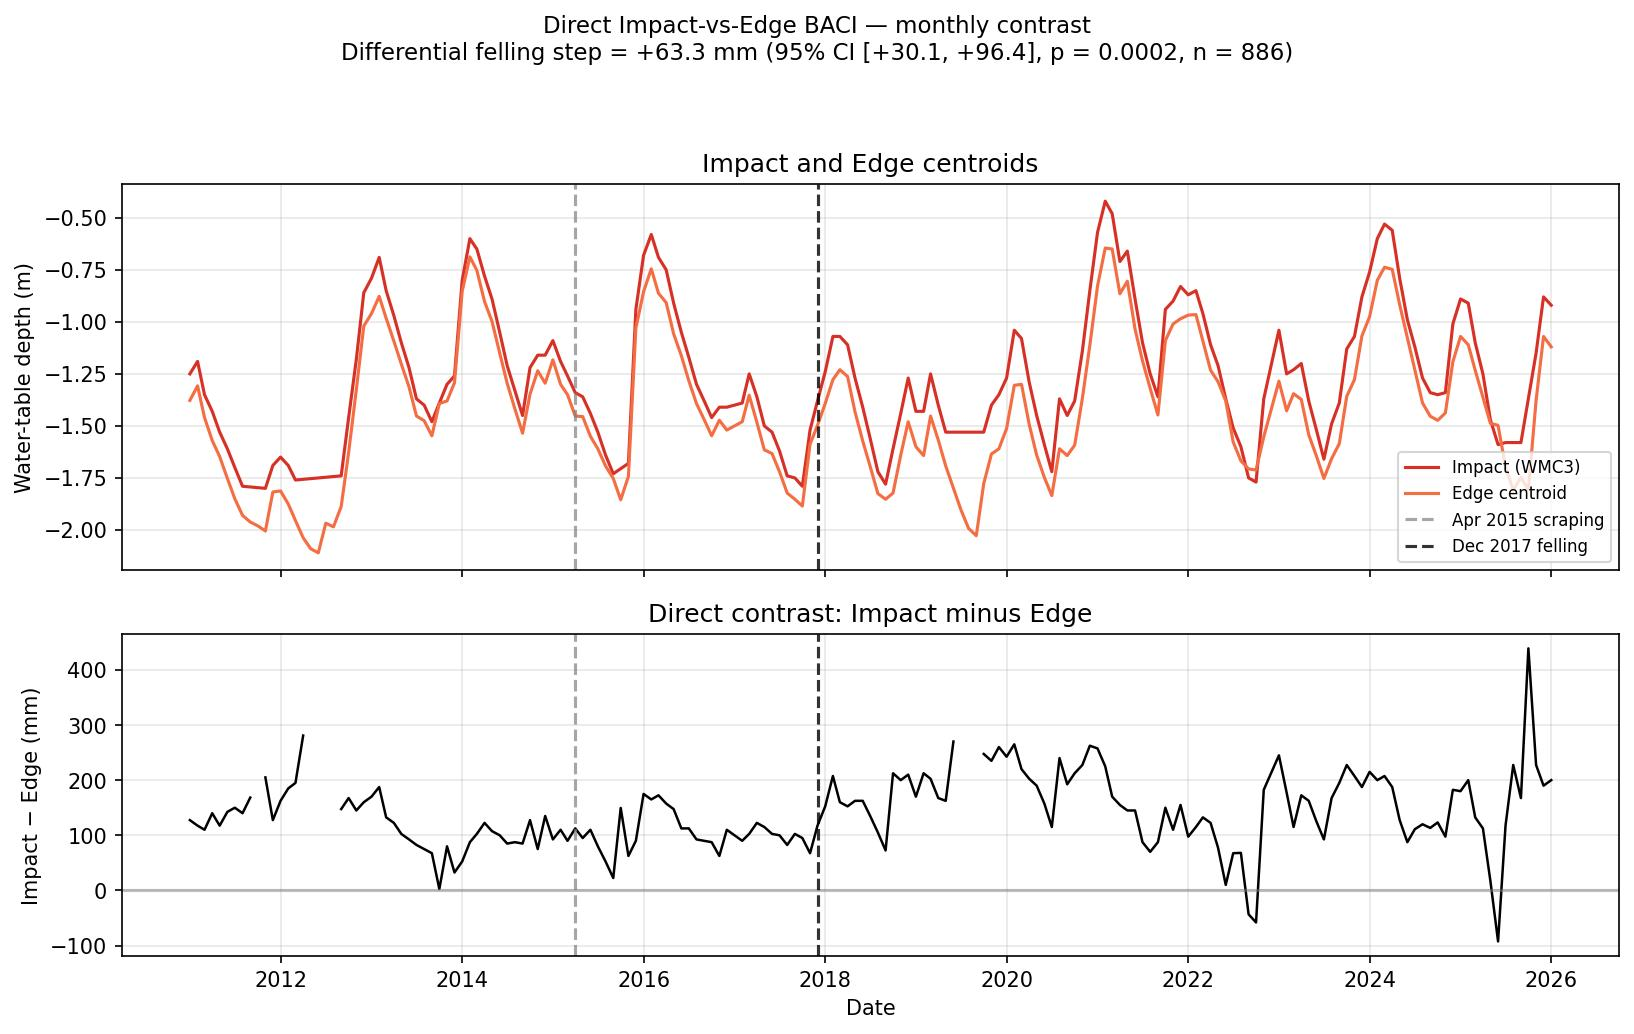
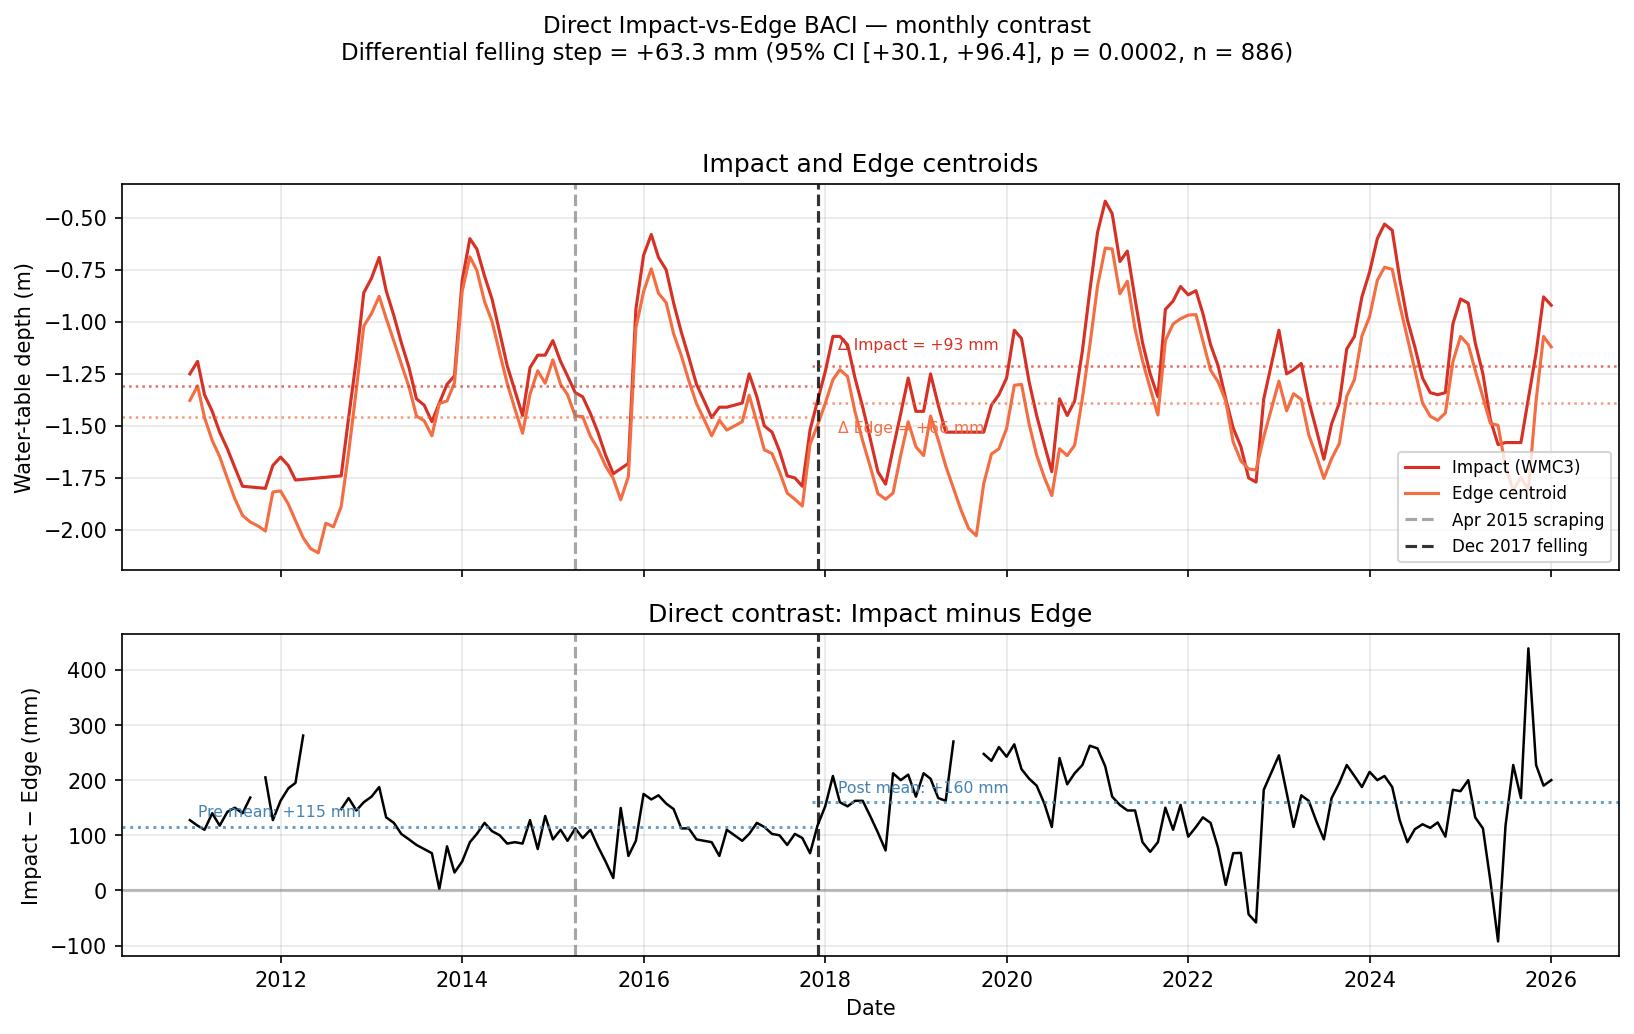
26 ebf

diff --git a/src/26_van_willegen_msl.py b/src/26_van_willegen_msl.py
@@ -46,6 +46,10 @@ Outputs (DIR_26 / "26_van_willegen_msl/"):
                                     (calibrated MSL5 = a + b·EWI) with residuals
                                     and in_van_willegen flag — the weighable
                                     prediction table (report §4.8.5)
+  * 26_ebf_comparison.csv           Per-piezometer Ellenberg-F with MSL5 and EWI
+                                    predictions (v1.3.3; external input required)
+  * 26_ebf_prediction_scatter.png   Three-panel EbF scatter — report Fig XX
+                                    (v1.3.3; external input required)
   * 26_msl_5yr_trajectory.png       Cluster trajectories with Curreli refs
   * 26_msl_5yr_quadrat_wells.png    Per-well trajectories at van-Willegen
                                     co-located quadrat wells (calibrated set)
@@ -60,6 +64,21 @@ hydrology. Ecological Indicators, 170, 113016.
 https://doi.org/10.1016/j.ecolind.2024.113016
 
 Curreli, A. et al. (2013) — SD15b/SD16 threshold reference lines.
+
+Version: 1.3.3 (2026-07-03) — EbF cross-validation moved into the pipeline:
+  * New compute_ebf_crossvalidation() + plot_ebf_scatter(): the Ellenberg-F
+    validation is now PIPELINE-GENERATED (Pass 7) rather than a one-off. It reads
+    the documented external van Willegen dataset (paths.DATA_ELLENBERG_EXT; van
+    Willegen et al. 2024, Mendeley — gitignored, not redistributed) and runs only
+    if that file is present, skipping cleanly otherwise. Between the 17 van
+    Willegen piezometers it regresses mean Ellenberg-F on observed MSL5 and on the
+    equilibrium index (annual and spring climatology), reporting r (Fisher-z CI),
+    RMSE (bootstrap CI), Williams' test (MSL5 vs annual EWI), and A–D match bands.
+  * Outputs 26_ebf_comparison.csv and 26_ebf_prediction_scatter.png (report
+    Fig XX) added. paths gains DATA_ELLENBERG_EXT, OUT_26_EBF_COMPARISON,
+    OUT_26_EBF_SCATTER. MSL5-vs-EbF correlation settles at the per-piezometer
+    aggregation (r ≈ 0.83), matching the Table YY / Williams basis.
+  * Still a Pass inside Script 26 — no change to the pipeline step count.
 
 Version: 1.3.2 (2026-07-03) — Open-dune scoping via site-wide Pearson clusters:
   * Extended wells now carry a canonical cluster label, read from the Pearson
@@ -1193,6 +1212,127 @@ def compute_ewi_msl5_comparison(ewi: pd.DataFrame,
 
 
 
+def compute_ebf_crossvalidation(elev: pd.DataFrame):
+    """
+    One-off-in-code, pipeline-generated Ellenberg-F cross-validation (v1.3.3).
+
+    Reads the documented external van Willegen ecohydrology dataset
+    (paths.DATA_ELLENBERG_EXT; van Willegen et al. 2024, Mendeley Data). If the
+    file is absent the Pass is skipped cleanly and the rest of Script 26 runs.
+
+    Between the 17 van Willegen piezometers, regresses mean Ellenberg-F on three
+    water-table metrics — observed MSL5, the equilibrium index on the annual
+    climatology, and on the spring climatology — reporting per-metric r (Fisher-z
+    CI), RMSE (bootstrap CI), the Williams test for MSL5 vs the annual index, and
+    A–D match bands. Correlations/RMSE are datum-invariant, so pipe-frame EWI and
+    the dataset's own Mean Spring are used directly.
+
+    Returns (per_well_df, summary_dict) or (None, None) if the input is absent.
+    """
+    from scipy.stats import pearsonr, t as _t
+    xlsx = paths.DATA_ELLENBERG_EXT
+    if not xlsx.exists():
+        warn(f"external Ellenberg dataset not found at {xlsx} — EbF Pass skipped "
+             f"(obtain from Mendeley doi:10.17632/p4xvb6xxp9.1)")
+        return None, None
+
+    # response: mean Ellenberg-F per piezometer
+    ebf = pd.read_excel(xlsx, "meanEbF")
+    for c in ["EbF1a", "EbF1b", "EbF1c", "EbF1d"]:
+        ebf[c] = pd.to_numeric(ebf[c], errors="coerce")
+    ebf["EbF"] = ebf[["EbF1a", "EbF1b", "EbF1c", "EbF1d"]].mean(axis=1)
+    ebf["piezo"] = (ebf["ID"].astype(str).str.rsplit("_", n=1).str[0]
+                    .str.replace(r"-\d+$", "", regex=True).str.lower())
+    ebf = ebf.dropna(subset=["EbF"]).groupby("piezo")["EbF"].mean()
+
+    # observed MSL5 (dataset's own Mean Spring, 5-yr rolling, per-piezo mean)
+    yb = pd.read_excel(xlsx, "Hydrology_metric_YearB")
+    yb["piezo"] = yb["Statistic"].astype(str).str.replace(r"-\d+$", "", regex=True).str.lower()
+    piv = yb.pivot_table(index="Year", columns="piezo", values="Mean Spring")
+    msl5 = piv.rolling(5, min_periods=5).mean().mean().rename("MSL5")
+
+    # EWI per piezometer from committed β on annual and spring climatologies
+    clim = pd.read_csv(paths.INT_CLIMATE, index_col=0, parse_dates=True)
+    P_ann, PET_ann = clim["P_m"].mean(), clim["PET"].mean()
+    sp = clim[clim.index.month.isin(config.MSL_SPRING_MONTHS)]
+    P_sp, PET_sp = sp["P_m"].mean(), sp["PET"].mean()
+    md = pd.read_csv(paths.INT_MASTER_DATA); md["piezo"] = md["Name_Original"].str.lower()
+    md["EWI_annual"] = (md["beta_1_recharge"] * P_ann - md["beta_2_atmospheric_draw"] * PET_ann) \
+        / md["beta_3_drainage"] - config.DRAINAGE_DATUM
+    md["EWI_spring"] = (md["beta_1_recharge"] * P_sp - md["beta_2_atmospheric_draw"] * PET_sp) \
+        / md["beta_3_drainage"] - config.DRAINAGE_DATUM
+    md = md.set_index("piezo")[["EWI_annual", "EWI_spring", "Cluster"]]
+
+    df = pd.DataFrame({"EbF": ebf}).join(msl5).join(md).dropna(subset=["EbF", "MSL5", "EWI_annual"])
+    n = len(df)
+
+    def _fit(col, B=5000):
+        x, y = df[col].to_numpy(), df["EbF"].to_numpy()
+        b, a = np.polyfit(x, y, 1); pred = a + b * x
+        res = np.abs(y - pred); rmse = float(np.sqrt(np.mean((y - pred) ** 2)))
+        r = float(pearsonr(x, y)[0])
+        z, se = np.arctanh(r), 1 / np.sqrt(len(x) - 3)
+        rlo, rhi = np.tanh(z - 1.96 * se), np.tanh(z + 1.96 * se)
+        rng = np.random.default_rng(0); bs = []
+        for _ in range(B):
+            i = rng.integers(0, len(x), len(x))
+            bb, aa = np.polyfit(x[i], y[i], 1)
+            bs.append(np.sqrt(np.mean((y[i] - (aa + bb * x[i])) ** 2)))
+        return dict(r=r, r_lo=float(rlo), r_hi=float(rhi), rmse=rmse,
+                    rmse_lo=float(np.percentile(bs, 2.5)), rmse_hi=float(np.percentile(bs, 97.5)),
+                    resid=res)
+
+    fit = {c: _fit(c) for c in ["MSL5", "EWI_annual", "EWI_spring"]}
+
+    # Williams' test: MSL5 vs annual EWI as EbF predictors (dependent)
+    r_ey = pearsonr(df["MSL5"], df["EbF"])[0]
+    r_ez = pearsonr(df["EWI_annual"], df["EbF"])[0]
+    r_yz = pearsonr(df["MSL5"], df["EWI_annual"])[0]
+    R = (1 - r_ey**2 - r_ez**2 - r_yz**2) + 2 * r_ey * r_ez * r_yz
+    t_w = (r_ey - r_ez) * np.sqrt((n - 1) * (1 + r_yz) /
+          (2 * ((n - 1) / (n - 3)) * R + ((r_ey + r_ez)**2 / 4) * (1 - r_yz)**3))
+    p_w = float(2 * (1 - _t.cdf(abs(t_w), n - 3)))
+
+    # A–D match bands (Ellenberg-F units), MSL5 vs annual EWI
+    edges = [0, 0.15, 0.30, 0.50, np.inf]; labs = ["A", "B", "C", "D"]
+    bands = {}
+    for lab, lo, hi in zip(labs, edges[:-1], edges[1:]):
+        bands[lab] = (int(((fit["MSL5"]["resid"] > lo) & (fit["MSL5"]["resid"] <= hi)).sum()),
+                      int(((fit["EWI_annual"]["resid"] > lo) & (fit["EWI_annual"]["resid"] <= hi)).sum()))
+
+    out = df.copy(); out.index.name = "piezo"; out = out.reset_index()
+    out["piezo"] = out["piezo"].str.upper()
+    out["resid_MSL5"] = fit["MSL5"]["resid"]
+    out["resid_EWI_annual"] = fit["EWI_annual"]["resid"]
+    out = out[["piezo", "Cluster", "EbF", "MSL5", "EWI_annual", "EWI_spring",
+               "resid_MSL5", "resid_EWI_annual"]]
+
+    summary = dict(n=n, fit=fit, williams_t=float(t_w), williams_p=p_w, bands=bands,
+                   r_MSL5=fit["MSL5"]["r"], r_EWI_annual=fit["EWI_annual"]["r"])
+    return out, summary
+
+
+def plot_ebf_scatter(df: pd.DataFrame, summary: dict, out: Path) -> None:
+    """Three-panel between-well EbF scatter: MSL5 | annual EWI | spring EWI (Fig XX)."""
+    panels = [("MSL5", "5-yr mean spring level MSL5 (m)", "(a) Observed MSL5"),
+              ("EWI_annual", "Equilibrium index, annual climate (m)", "(b) EWI — annual"),
+              ("EWI_spring", "Equilibrium index, spring climate (m)", "(c) EWI — spring")]
+    fig, axes = plt.subplots(1, 3, figsize=(15, 5.2), sharey=True)
+    for ax, (col, xlab, title) in zip(axes, panels):
+        for cid in sorted(df["Cluster"].dropna().astype(int).unique()):
+            s = df[df["Cluster"] == cid]
+            ax.scatter(s[col], s["EbF"], s=55, edgecolor="k", linewidth=0.4,
+                       color=config.CLUSTER_COLOURS.get(cid, "grey"),
+                       label=config.CLUSTER_LABELS.get(cid, f"C{cid}"), zorder=3)
+        m, c = np.polyfit(df[col], df["EbF"], 1); xs = np.array([df[col].min(), df[col].max()])
+        ax.plot(xs, m * xs + c, "k--", lw=1, zorder=2)
+        r = summary["fit"][col]["r"]
+        ax.set_xlabel(xlab); ax.set_title(f"{title}\nr = {r:+.2f}  (n = {summary['n']})", fontsize=10)
+    axes[0].set_ylabel("Mean Ellenberg-F (moisture)")
+    axes[2].legend(fontsize=7, loc="lower right", title="Habitat")
+    fig.tight_layout(); fig.savefig(out, dpi=160); plt.close(fig)
+
+
 def main() -> int:
     banner("26", "van Willegen MSL Projection")
     print("=" * 72)
@@ -1377,6 +1517,25 @@ def main() -> int:
                 info(f"  out-of-scope forest (C4/C5): n={len(forest)}, "
                      f"RMSE {np.sqrt((forest['residual_mm']**2).mean()):.0f} mm "
                      f"(predicted but flagged unreliable)")
+
+    # ── Pass 7 — Ellenberg-F cross-validation (v1.3.3, external input) ─────
+    print("\nPass 7 — Ellenberg-F cross-validation (MSL5 vs EWI; external dataset)")
+    ebf_df, ebf_summary = compute_ebf_crossvalidation(elev)
+    if ebf_df is not None:
+        ebf_df.to_csv(paths.OUT_26_EBF_COMPARISON, index=False)
+        saved(f"{paths.OUT_26_EBF_COMPARISON.name}")
+        f = ebf_summary["fit"]
+        info(f"  EbF ~ MSL5:  r={f['MSL5']['r']:+.3f} [{f['MSL5']['r_lo']:+.2f},{f['MSL5']['r_hi']:+.2f}]  "
+             f"RMSE={f['MSL5']['rmse']:.3f} EbF-units")
+        info(f"  EbF ~ EWI :  r={f['EWI_annual']['r']:+.3f} [{f['EWI_annual']['r_lo']:+.2f},{f['EWI_annual']['r_hi']:+.2f}]  "
+             f"RMSE={f['EWI_annual']['rmse']:.3f} EbF-units")
+        info(f"  Williams' test (MSL5 vs EWI): t={ebf_summary['williams_t']:+.3f}, "
+             f"p={ebf_summary['williams_p']:.3f} "
+             f"({'indistinguishable' if ebf_summary['williams_p'] >= 0.05 else 'distinguishable'})")
+        info("  match bands (MSL5 / EWI): " +
+             ", ".join(f"{k} {v[0]}/{v[1]}" for k, v in ebf_summary["bands"].items()))
+        plot_ebf_scatter(ebf_df, ebf_summary, paths.OUT_26_EBF_SCATTER)
+        saved(f"{paths.OUT_26_EBF_SCATTER.name}")
 
     # ── Figures ────────────────────────────────────────────────────────────
     print("\nRendering figures...")

diff --git a/src/10a_ancova_baci.py b/src/10a_ancova_baci.py
@@ -32,7 +32,11 @@ Hollingham (2026), §4.6.  Part of the Script 10 clearfell analysis suite.
 ====================================================================================
 """
 
-__version__ = "1.4.0"  # Hollingham (2026) — 2026-05-25
+__version__ = "1.4.1"  # Hollingham (2026) — 2026-07-03
+# 1.4.1 — _plot_era_means(): colour parameter added; era mean lines
+#          now colour-matched to the plotted series, dashed (--),
+#          lw=1.8 alpha=0.85 zorder=3. All three callers updated.
+#          Visual only — no analytical change.
 # 1.4.0 — §4.6 canopy-buffering support.  Two changes, neither alters the
 #         headline clearfell step or the linear ANCOVA model:
 #         (1) New step 3b: a CWB²×felling curvature SENSITIVITY VARIANT,
@@ -765,8 +769,16 @@ def _compute_corrected(df, fit):
     return corrected
 
 
-def _plot_era_means(ax, df, corrected_mm):
-    """Draw era mean horizontal lines from the corrected series."""
+def _plot_era_means(ax, df, corrected_mm, color=None):
+    """Draw era mean horizontal lines from the corrected series.
+
+    Parameters
+    ----------
+    color : str or None
+        Line colour matched to the series being plotted.
+        Falls back to '#555555' if None.
+    """
+    line_color = color if color is not None else '#555555'
     for mask, x0, x1 in [
         (df.index < SCRAPING_DATE,
          df.index[0], SCRAPING_DATE),
@@ -777,7 +789,9 @@ def _plot_era_means(ax, df, corrected_mm):
     ]:
         era_data = corrected_mm[mask]
         if len(era_data) > 0:
-            ax.hlines(era_data.mean(), x0, x1, colors='grey', ls=':', lw=1)
+            ax.hlines(era_data.mean(), x0, x1,
+                      colors=line_color, ls='--', lw=1.8, alpha=0.85,
+                      zorder=3)
 
 
 # ── Primary figures: Forest control only (for report) ────────────────────────
@@ -801,7 +815,7 @@ def plot_forest_timeseries(zone_label, out_path):
     ax.plot(df.index, corrected * 1000, color=CB_FOREST, lw=1.5,
             label='Climate-corrected')
 
-    _plot_era_means(ax, df, corrected * 1000)
+    _plot_era_means(ax, df, corrected * 1000, color=CB_FOREST)
     _vlines(ax)
 
     ax.set_ylabel('BACI displacement (mm)')
@@ -936,7 +950,7 @@ for zone_label, out_path in [('Impact', OUT_FIG_CUSUM_IMP),
             lw=0.8, label='Raw')
     ax.plot(corrected.index, corrected * 1000, color=CB_FOREST, lw=1.5,
             label='Climate-corrected')
-    _plot_era_means(ax, df, corrected * 1000)
+    _plot_era_means(ax, df, corrected * 1000, color=CB_FOREST)
     _vlines(ax)
     ax.set_ylabel('BACI displacement (mm)')
     fell_step = fit['clearfell_step'] * 1000
@@ -1010,7 +1024,7 @@ def plot_baci_timeseries_3panel(zone_label, out_path):
         ax.plot(df.index, corrected * 1000, color=colour, lw=1.5,
                 label='Climate-corrected')
 
-        _plot_era_means(ax, df, corrected * 1000)
+        _plot_era_means(ax, df, corrected * 1000, color=colour)
         _vlines(ax)
         ax.set_ylabel('BACI displacement (mm)')
         fell_step = fit['clearfell_step'] * 1000

diff --git a/src/10j_impact_edge_contrast.py b/src/10j_impact_edge_contrast.py
@@ -92,7 +92,10 @@ from utils.clearfell_common import (
 )
 from utils.site_observations import update_site_observation
 
-__version__ = "1.2.1"  # Hollingham (2026) — 2026-07-03
+__version__ = "1.2.2"  # Hollingham (2026) — 2026-07-04
+# 1.2.2 — figure_monthly_contrast(): fix IndexError — pre/post masks now
+#          computed per-series on each series' own index (Impact 172 rows,
+#          Edge 180 rows); shared mask caused length mismatch in pandas.
 # 1.2.1 — figure_monthly_contrast(): added pre/post period mean lines
 #          (dotted, colour-matched) to both panels, with annotations
 #          showing the per-zone and gap-series shifts.
@@ -355,18 +358,13 @@ def figure_monthly_contrast(panel, monthly, out_path):
                              gridspec_kw={'height_ratios': [1.2, 1.0]})
 
     # Pre/post split for period means
-    pre_mask  = impact_mean.index <  INTERVENTION_DATE
-    post_mask = impact_mean.index >= INTERVENTION_DATE
-
-    # Period means — top panel
-    imp_pre_mean  = impact_mean[pre_mask].mean()
-    imp_post_mean = impact_mean[post_mask].mean()
-    edg_pre_mean  = edge_mean[pre_mask].mean()
-    edg_post_mean = edge_mean[post_mask].mean()
-
-    # Period means — bottom panel
-    diff_pre_mean  = diff[pre_mask].mean()  * 1000
-    diff_post_mean = diff[post_mask].mean() * 1000
+    # Period means — each series masked on its own index (lengths differ)
+    imp_pre_mean  = impact_mean[impact_mean.index <  INTERVENTION_DATE].mean()
+    imp_post_mean = impact_mean[impact_mean.index >= INTERVENTION_DATE].mean()
+    edg_pre_mean  = edge_mean[edge_mean.index   <  INTERVENTION_DATE].mean()
+    edg_post_mean = edge_mean[edge_mean.index   >= INTERVENTION_DATE].mean()
+    diff_pre_mean  = diff[diff.index <  INTERVENTION_DATE].mean() * 1000
+    diff_post_mean = diff[diff.index >= INTERVENTION_DATE].mean() * 1000
 
     ax0 = axes[0]
     ax0.plot(impact_mean.index, impact_mean.values,

diff --git a/src/utils/paths.py b/src/utils/paths.py
@@ -98,6 +98,11 @@ DATA_WELLS_RAW      = DATA_DIR / "Newborough_Cleaned_For_Model.csv"
 DATA_WELL_METADATA  = DATA_DIR / "well_metadata.csv"
 DATA_LOCATIONS_RAW  = DATA_WELL_METADATA
 DATA_CLIMATE_RAW    = DATA_DIR / "RAF_Valley_Climate.csv"
+# Documented external input (Script 26 v1.3.3), gitignored — NOT redistributed.
+# Ellenberg-F dune-slack ecohydrology dataset, van Willegen et al. (2024),
+# Mendeley Data V1, doi:10.17632/p4xvb6xxp9.1. Obtain and place at this path;
+# Script 26's EbF cross-validation Pass runs if present and skips cleanly if not.
+DATA_ELLENBERG_EXT  = DATA_DIR / "Ecohydrology_dataset.xlsx"
 
 # Geographic inputs — all resolved via data_geo() (files live in data/geo/).
 DATA_DEM               = data_geo("newborough_dem.tif")
@@ -656,6 +661,10 @@ OUT_26_RESULTS_TXT        = DIR_26 / "26_msl_results.txt"
 # observed-vs-predicted MSL5 comparison table.
 OUT_26_EWI_PER_WELL       = DIR_26 / "26_equilibrium_wetness_index_per_well.csv"
 OUT_26_EWI_MSL5_COMPARISON = DIR_26 / "26_ewi_msl5_comparison.csv"
+# EbF vegetation cross-validation (v1.3.3) — generated from the documented
+# external Ellenberg dataset (DATA_ELLENBERG_EXT); skipped if that file is absent.
+OUT_26_EBF_COMPARISON     = DIR_26 / "26_ebf_comparison.csv"
+OUT_26_EBF_SCATTER        = DIR_26 / "26_ebf_prediction_scatter.png"
 
 # Script 26b — Van Willegen MSL UKCP18 climate projections (Phase 13, Tool B)
 # Pairs with Script 11 Section 5 (Tool A) and Script 26 (observational MSL5).
